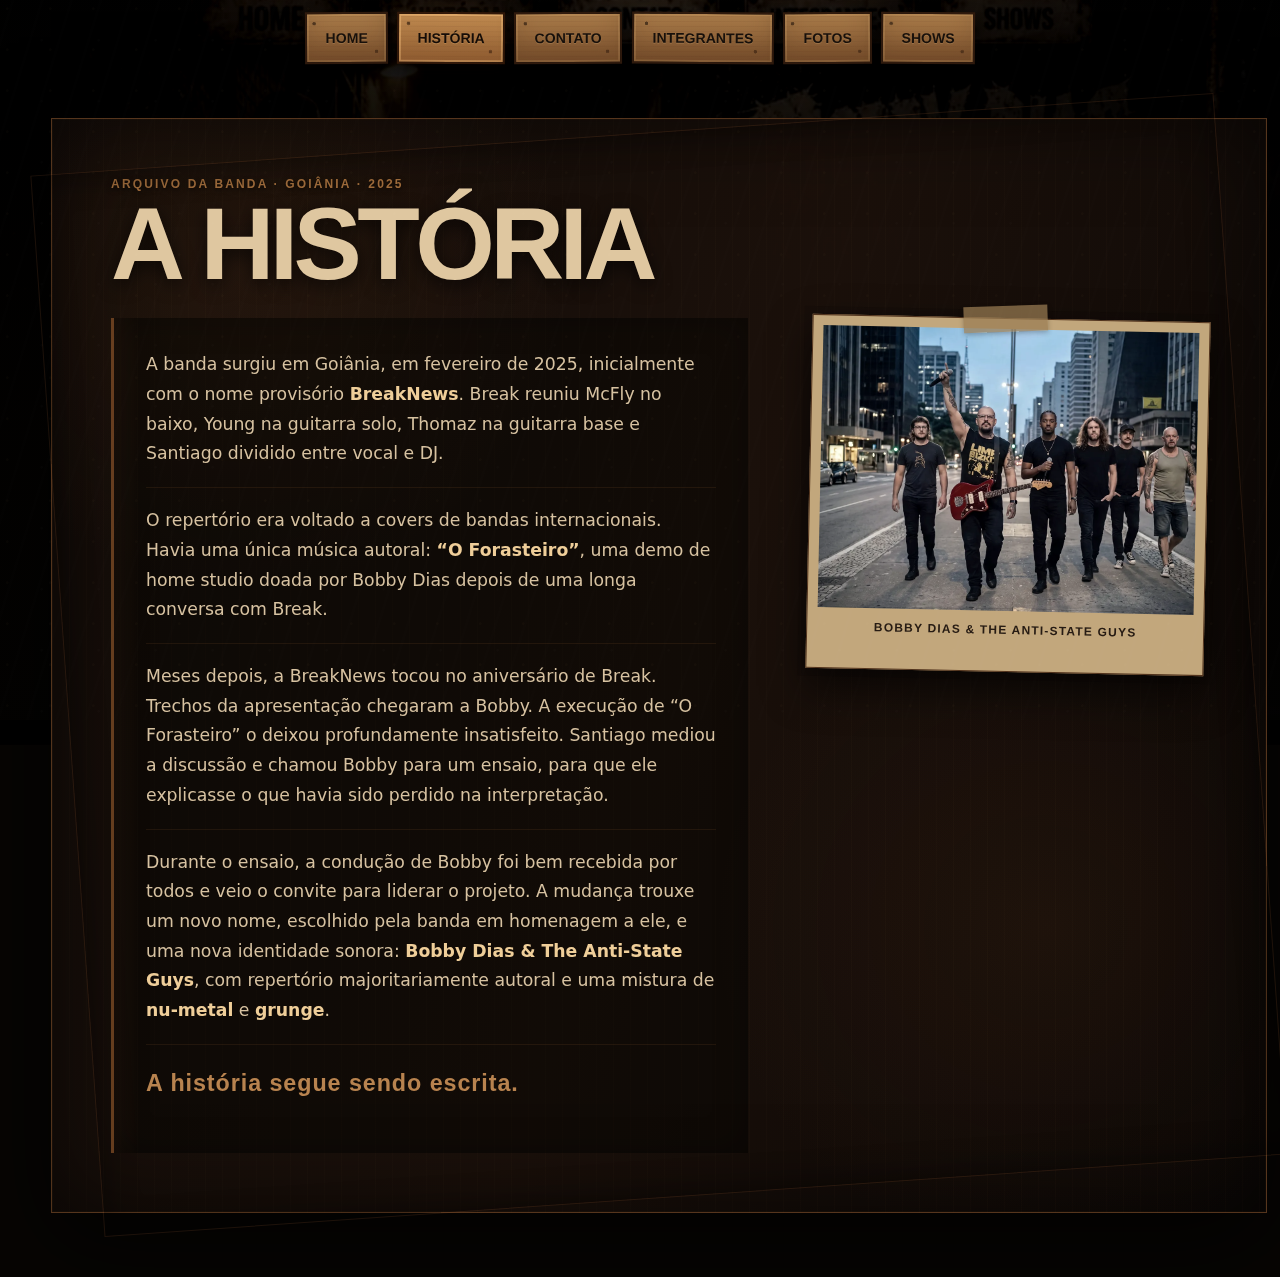
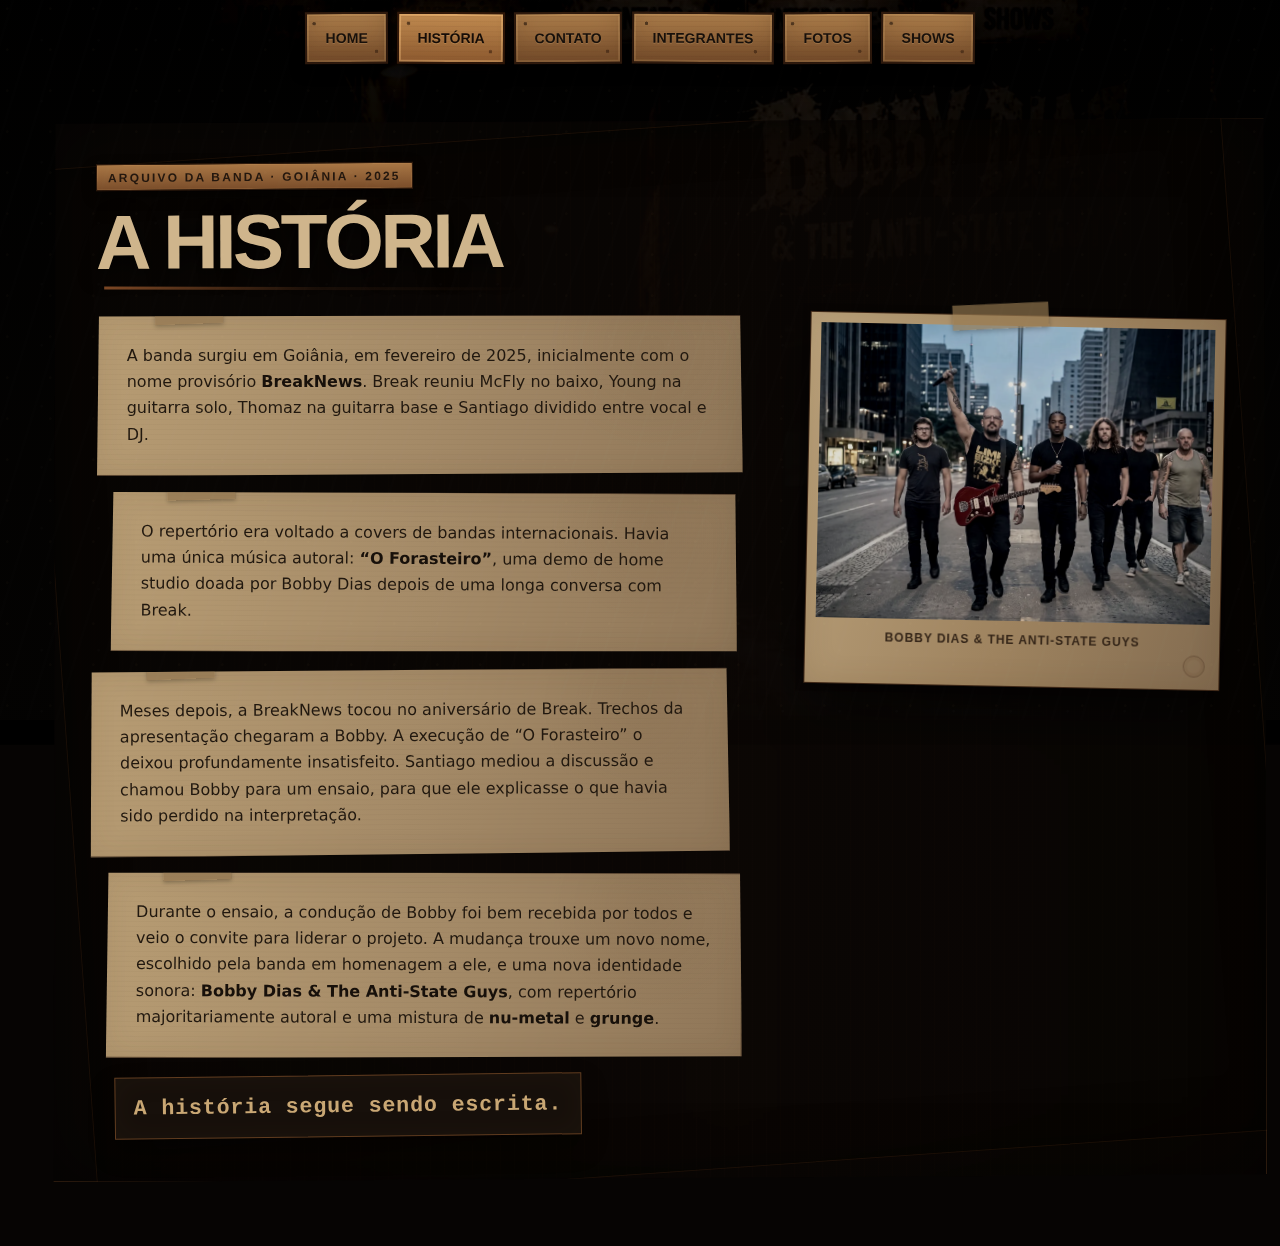
test: persist scenic v2 visual QA preview

diff --git a/QA-VERIFY.md b/QA-VERIFY.md
@@ -3,6 +3,6 @@
 - Result: PASS
 - Browser: Chromium / Playwright 1.55.0
 - Tested: desktop 1672x941, desktop 1440x900, mobile 390x844, all internal routes, image decoding, music catalog and persistent audio element.
-- Source commit: 661157465609af63b7832a28f7234e9585c9412e
+- Source commit: cddc9606584406db8a519f5705f974c9863210d7
 
 Temporary screenshots are stored in `.qa-preview/` for design review and must be removed before production merge.
